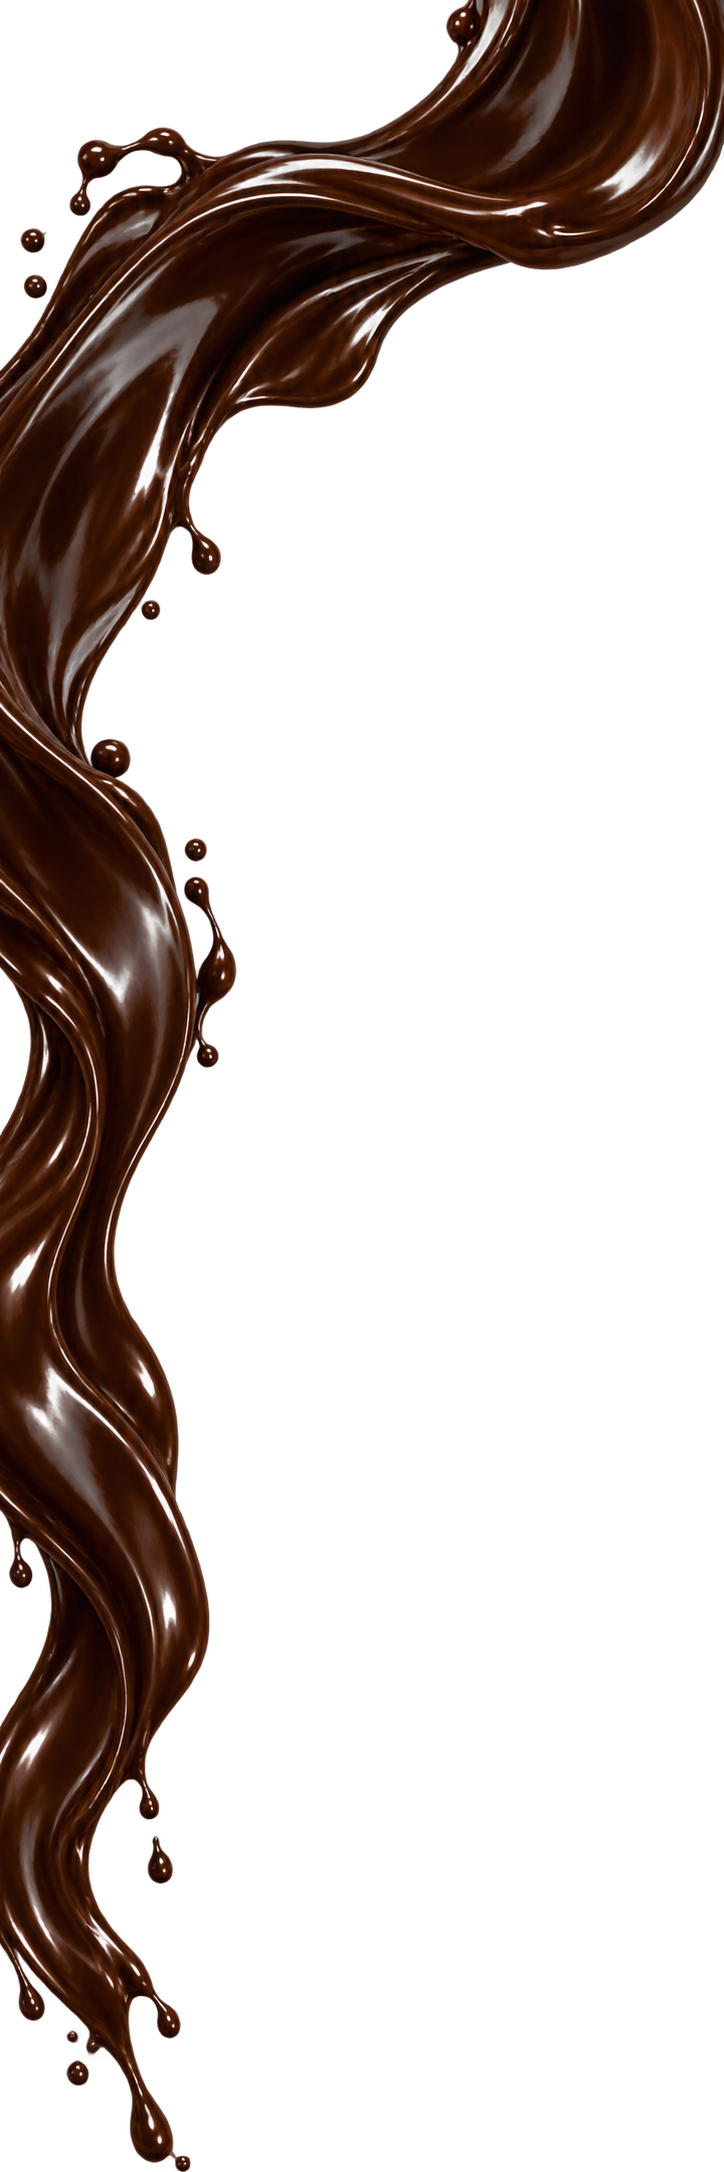
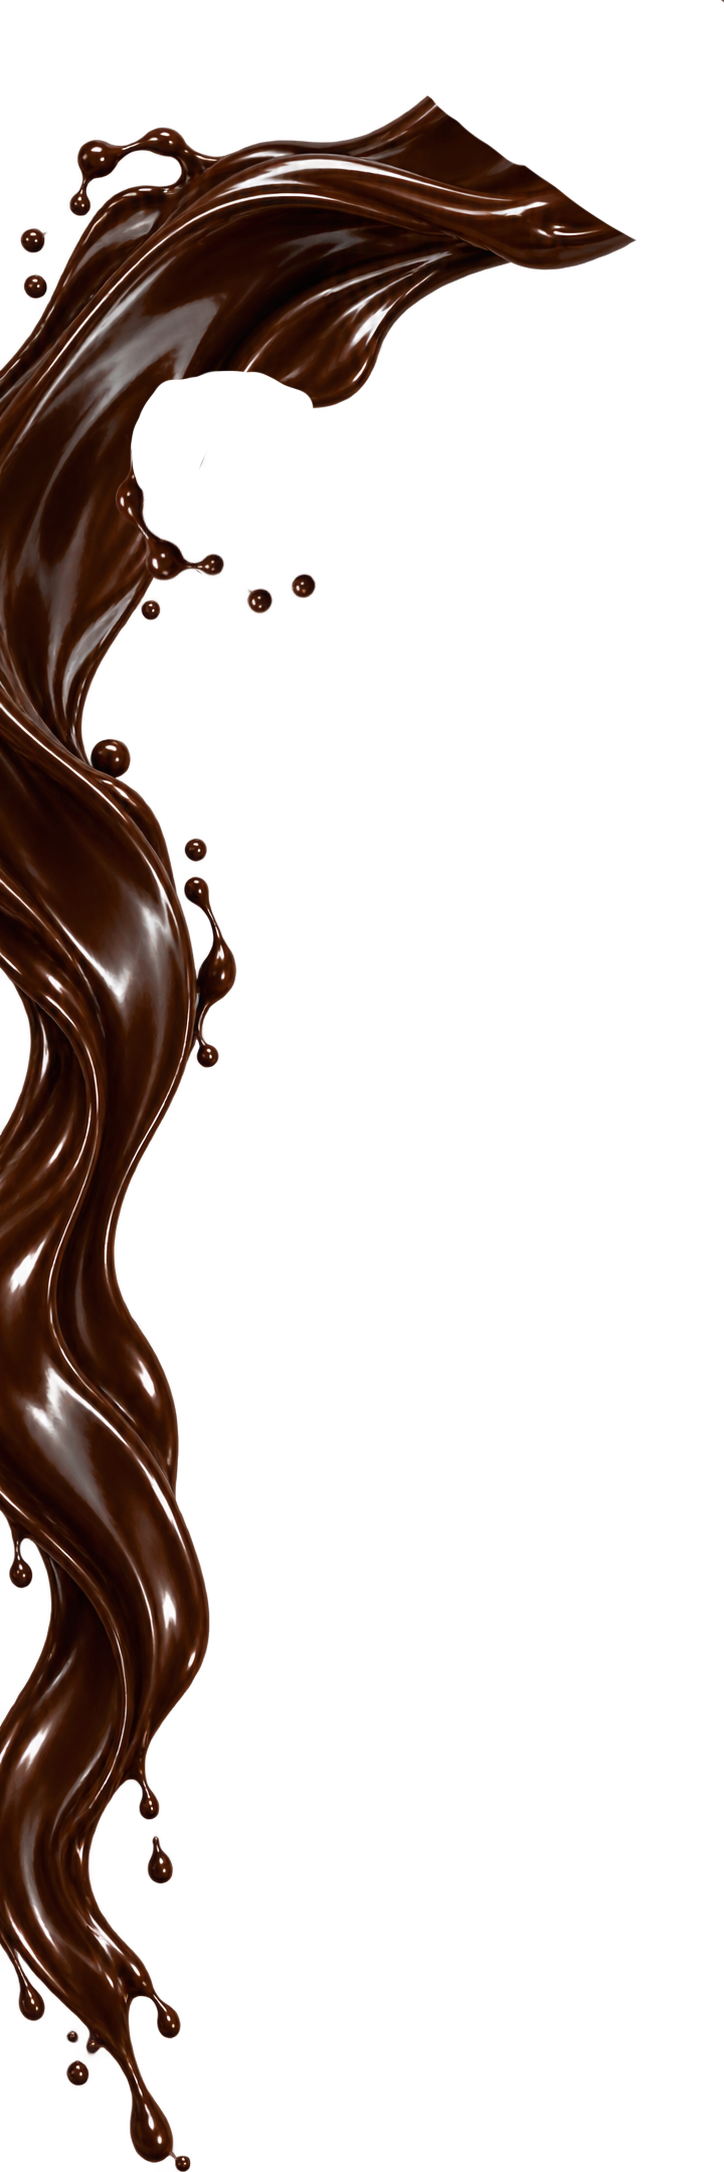
fixed ittt

diff --git a/shop.css b/shop.css
@@ -3563,6 +3563,7 @@ body.shop-page .tpj-banner-image {
   margin: 0;
   padding: 0;
   pointer-events: none;
+
 }
 
 body.shop-page .tpj-banner-copy {
@@ -3692,11 +3693,48 @@ body.shop-page .shop-content {
 body.shop-page .cupcake-section {
   isolation: isolate;
   background: transparent;
+  container-type: inline-size;
 }
 
 body.shop-page .cupcake-section::before,
 body.shop-page .cupcake-section::after {
   content: none;
+}
+
+/* Continue the left pour to the bottom of the cupcake section */
+body.shop-page .cupcake-left-extension {
+  position: absolute;
+  top: 28.914cqw;
+  bottom: 40px;
+  left: 0;
+  width: 100%;
+  z-index: 0;
+  overflow: visible;
+  pointer-events: none;
+  
+
+  -webkit-mask-image: linear-gradient(
+    to bottom,
+    transparent 0,
+    #000 8cqw
+  );
+  mask-image: linear-gradient(
+    to bottom,
+    transparent 0,
+    #000 8cqw
+    
+  );
+}
+
+body.shop-page .cupcake-left-extension img {
+  position: absolute;
+  top: -25.333%;
+  left: -1%;
+  display: block;
+  height: 120%;
+  width: auto;
+  max-width: none;
+  max-height: none;
 }
 
 body.shop-page .cupcake-showcase {

diff --git a/pages/shop.html b/pages/shop.html
@@ -195,7 +195,13 @@
         class="dessert-section cupcake-section"
         id="loadedCupcakes"
     >
-<!-- Continuous chocolate along the left side -->
+<!-- Left chocolate continuation -->
+<div class="cupcake-left-extension" aria-hidden="true">
+  <img
+    src="../images/Shop/cupcake-chocolate-left-v2.png"
+    alt=""
+  >
+</div>
 
         <!-- Decorative oversized desserts -->
         <div
